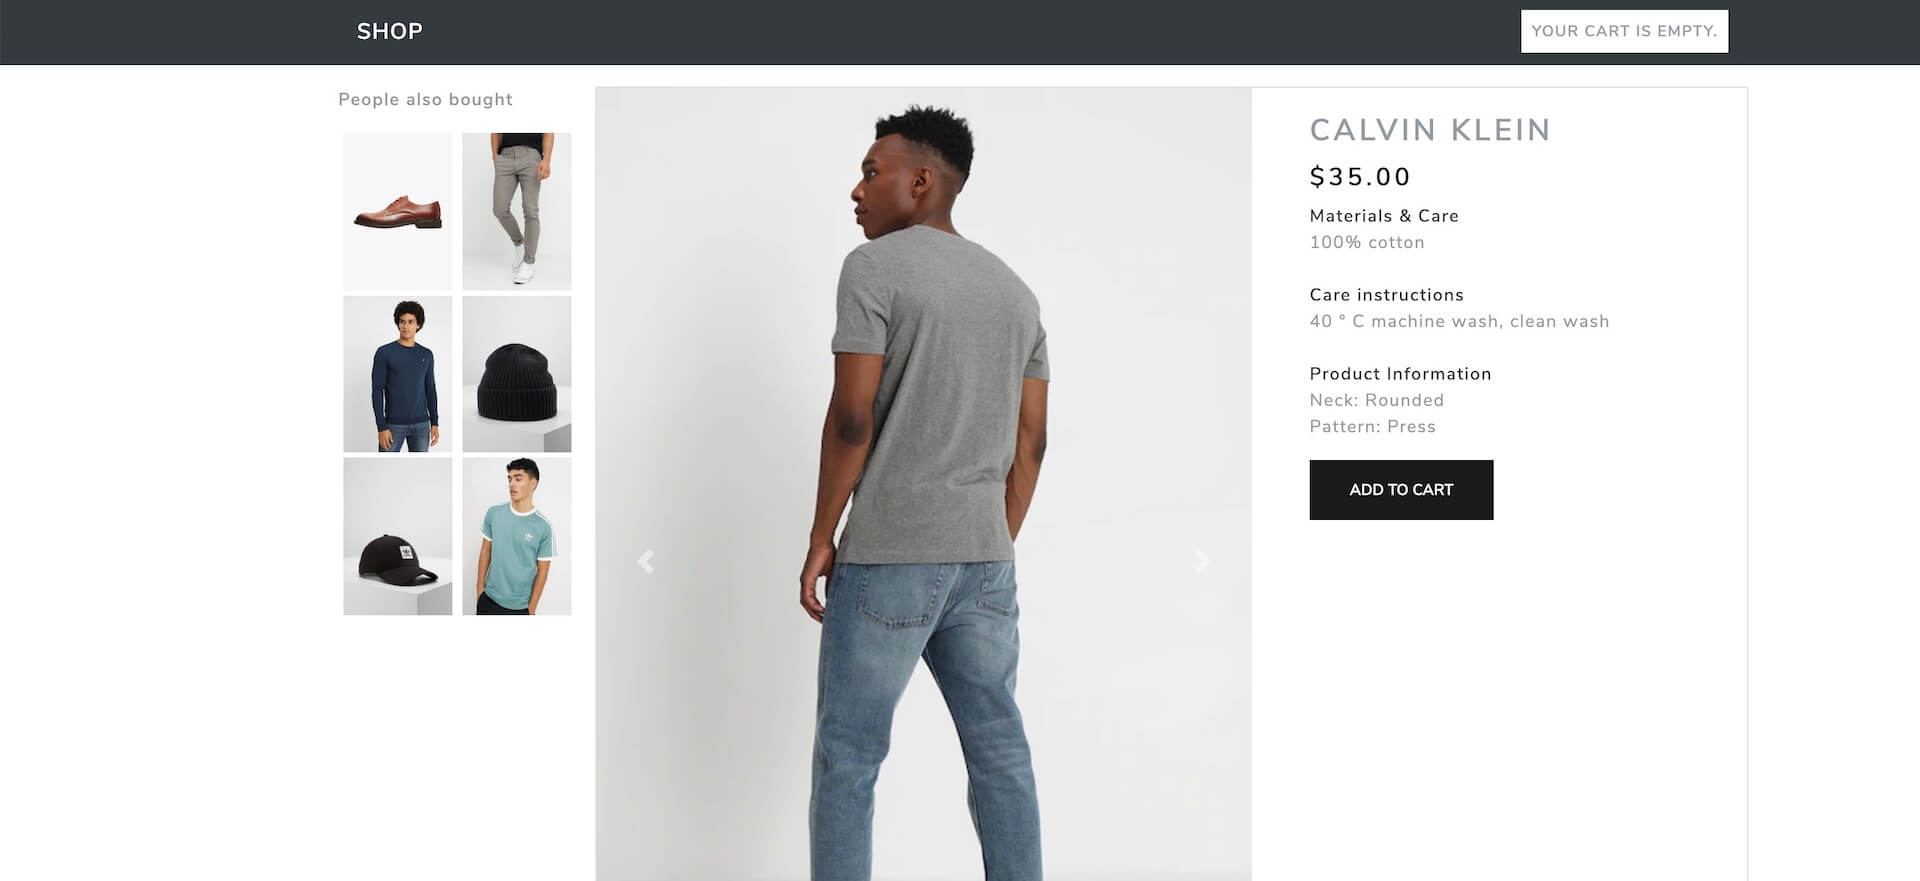
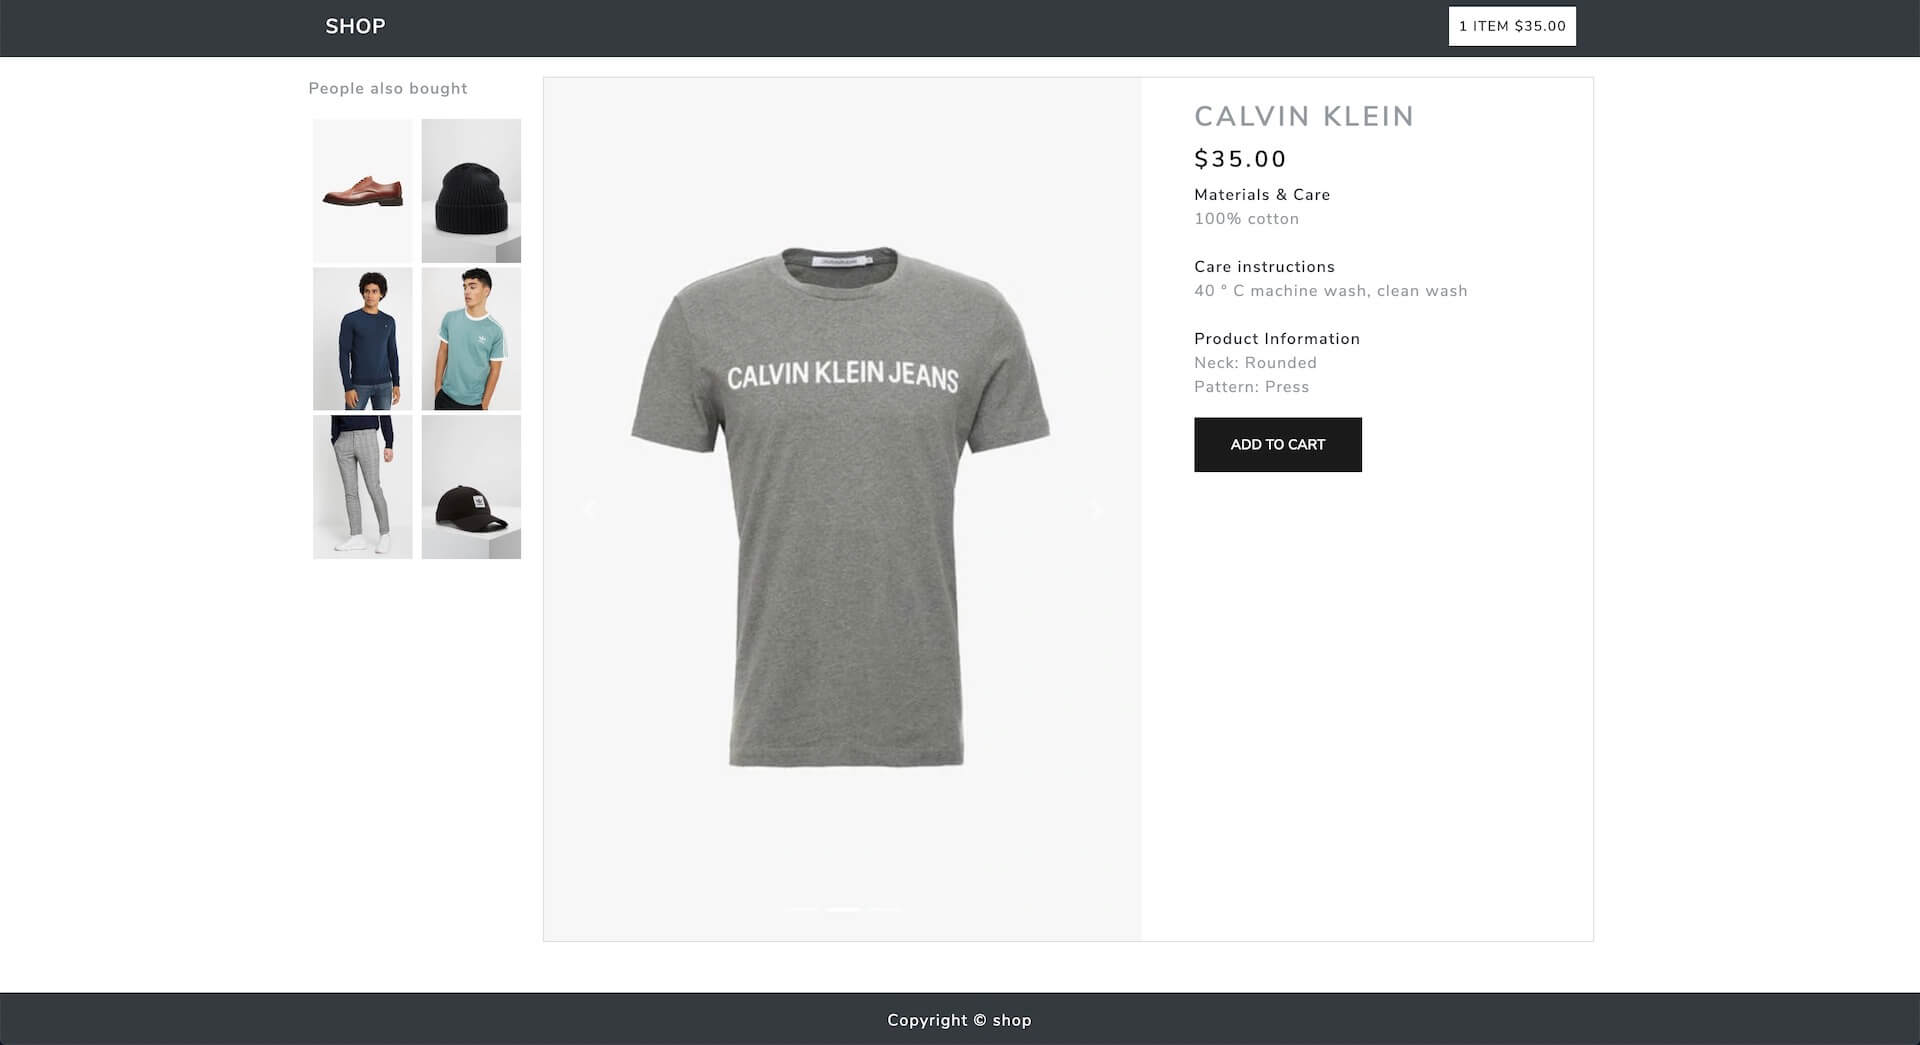
update images for e-commerce project

diff --git a/data.js b/data.js
@@ -73,7 +73,7 @@ const data = {
         }
       ],
       frontImg: "images/ecommerce1.jpg",
-      images: [{src:"images/ecommerce1.jpg", alt:"e-commerce"}, {src:"images/ecommerce2.jpg", alt:"e-commerce"}, {src:"images/ecommerce3.jpg", alt:"e-commerce"}, {src:"images/ecommerce4.jpg", alt:"e-commerce"}, {src:"images/ecommerce5.jpg", alt:"e-commerce"}, {src:"images/ecommerce6.jpg", alt:"e-commerce"}]
+      images: [{src:"images/ecommerce1.jpg", alt:"e-commerce"}, {src:"images/ecommerce2.jpg", alt:"e-commerce"}, {src:"images/ecommerce4.jpg", alt:"e-commerce"}, {src:"images/ecommerce5.jpg", alt:"e-commerce"}, {src:"images/ecommerce6.jpg", alt:"e-commerce"}]
     }
   ]
 };
